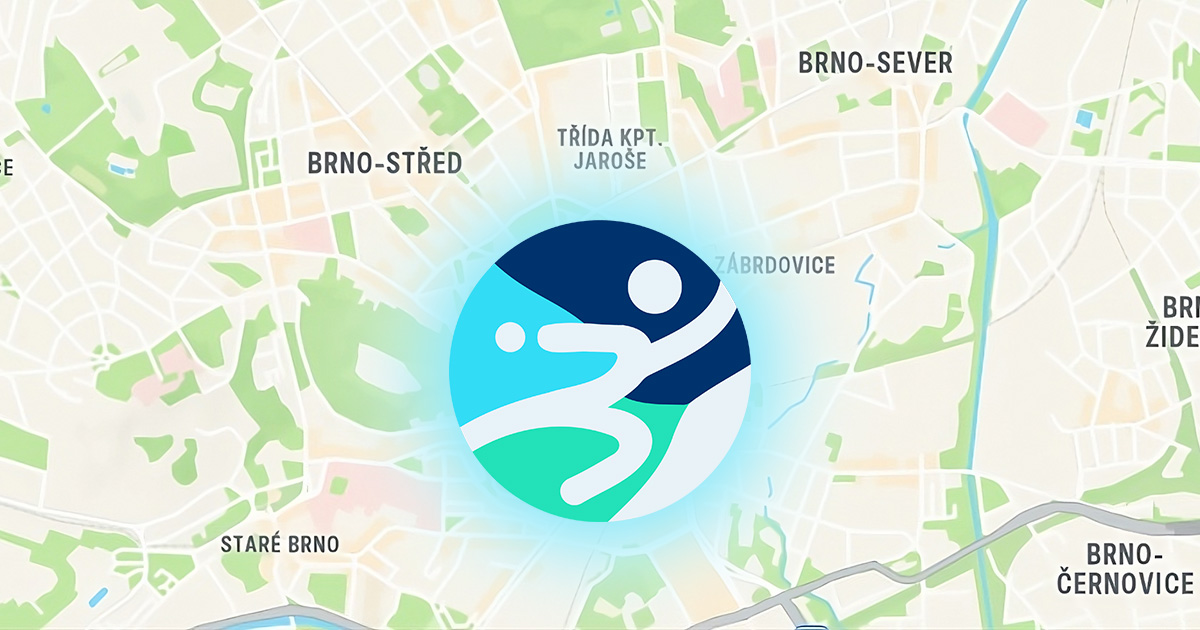
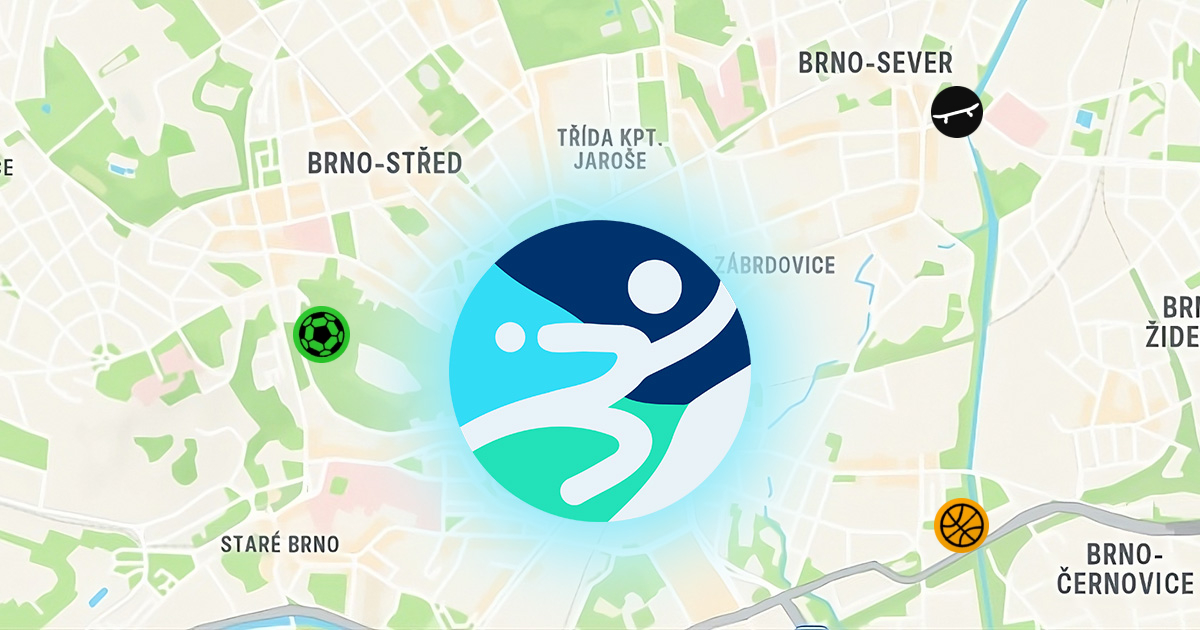
Lightbox fix

Changed region(s): [[0.7708, 0.1206, 0.8325, 0.2413], [0.7708, 0.7841, 0.8325, 0.8746], [0.2467, 0.4825, 0.3083, 0.573]]

diff --git a/sportera/src/components/Map.tsx b/sportera/src/components/Map.tsx
@@ -1,6 +1,7 @@
 import React, { useEffect, useRef, useCallback, useState } from 'react';
 import { mapKitConfig } from '@config/mapConfig';
 import places from '../data/places.json';
+import decathlons from '../data/decathlons.json'
 import * as markers from '../assets/markers';
 import SportFilters from './SportFilters';
 import Lightbox from './LightBox';
@@ -31,6 +32,14 @@ interface Place {
   Folder: string;
   Rating?: number;
   Reel?: string;
+}
+
+interface Decathlon {
+  Name: string;
+  Latitude: number;
+  Longitude: number;
+  Description: string;
+  reel?: string;  // Optional reel URL
 }
 
 const brnoCoordinates = { latitude: 49.1951, longitude: 16.6068 };
@@ -316,13 +325,14 @@ const Map: React.FC<MapProps> = React.memo(({ onFilterToggle }) => {
       region: new window.mapkit.CoordinateRegion(center, span),
       ...mapKitConfig.mapSettings,
     });
-
+  
     (mapInstanceRef.current as any)._allowWheelToZoom = true;
-
+  
     mapInstanceRef.current.addEventListener('zoom-start', hideFilters);
     mapInstanceRef.current.addEventListener('pan-start', hideFilters);
     mapInstanceRef.current.addEventListener('single-tap', hideFilters);
   
+    // Add sport places markers
     places.forEach((place: Place) => {
       const markerIcon = getMarkerIcon(place.Sport);
       if (markerIcon) {
@@ -351,7 +361,102 @@ const Map: React.FC<MapProps> = React.memo(({ onFilterToggle }) => {
         annotationsRef.current.push(annotation);
       }
     });
+  
+    // Add Decathlon markers
+    decathlons.forEach((decathlon: Decathlon) => {
+// In your decathlons.forEach loop, modify the annotation creation:
+const annotation = new window.mapkit.ImageAnnotation(
+  new window.mapkit.Coordinate(decathlon.Latitude, decathlon.Longitude),
+  {
+    title: decathlon.Name,
+    subtitle: decathlon.Description,
+    url: { 1: markers.decathlon },
+    size: { width: 32, height: 32 },
+    anchorOffset: new window.DOMPoint(0, -15),
+    callout: {
+      calloutElementForAnnotation: (annotation: any) => {
+        const div = document.createElement("div");
+        div.className = "custom-callout decathlon-callout";
+        
+        const contentDiv = document.createElement("div");
+        contentDiv.className = "callout-content";
+        
+        const title = document.createElement("h2");
+        title.className = "callout-title selectable";
+        const titleLink = document.createElement("a");
+        titleLink.href = "https://www.decathlon.cz/";
+        titleLink.target = "_blank";
+        titleLink.rel = "noopener noreferrer";
+        titleLink.textContent = annotation.title;
+        title.appendChild(titleLink);
+        contentDiv.appendChild(title);
+        
+        const description = document.createElement("p");
+        description.className = "callout-description selectable";
+        description.textContent = annotation.subtitle;
+        contentDiv.appendChild(description);
+        
+        const footer = document.createElement("div");
+        footer.className = "callout-footer";
+        
+        // Add navigation button
+        const button = document.createElement("button");
+        button.className = "callout-nav-button";
+        button.innerHTML = '<img src="/images/navigate-icon.svg" alt="Navigate" />';
+        button.addEventListener('click', (e) => {
+          e.preventDefault();
+          const url = `https://www.google.com/maps/search/?api=1&query=${annotation.coordinate.latitude},${annotation.coordinate.longitude}`;
+          if (/Android|webOS|iPhone|iPad|iPod|BlackBerry|IEMobile|Opera Mini/i.test(navigator.userAgent)) {
+            window.location.href = url;
+          } else {
+            window.open(url, '_blank');
+          }
+        });
+        footer.appendChild(button);
+      
+        // Add Instagram reel button only if there's a reel URL
+        if (annotation.data.reel) {
+          const reelButton = document.createElement("button");
+          reelButton.className = "callout-reel-button";
+          reelButton.innerHTML = '<img src="/images/instagram_logo.svg" alt="Watch Instagram Reel" />';
+          reelButton.addEventListener('click', () => {
+            const reelUrl = annotation.data.reel;
+            const cleanReelUrl = reelUrl.split('?')[0];
+            
+            if (/iPhone|iPad|iPod/i.test(navigator.userAgent)) {
+              window.location.href = cleanReelUrl;
+            } else if (/Android/i.test(navigator.userAgent)) {
+              const reelId = cleanReelUrl.split('/reel/')[1].replace('/', '');
+              const instagramAppUrl = `intent://instagram.com/reel/${reelId}#Intent;package=com.instagram.android;scheme=https;end`;
+              window.location.href = instagramAppUrl;
+              setTimeout(() => {
+                window.location.href = cleanReelUrl;
+              }, 2000);
+            } else {
+              window.open(cleanReelUrl, '_blank');
+            }
+          });
+          footer.appendChild(reelButton);
+        }
+        
+        contentDiv.appendChild(footer);
+        div.appendChild(contentDiv);
+        
+        return div;
+      }
+    },
+    accessibilityLabel: `${decathlon.Name}`,
+    data: { 
+      isDecathlon: true
+    },
+  }
+);
+      mapInstanceRef.current.addAnnotation(annotation);
+      // Add to a separate array or with a flag to distinguish from sport annotations
+      annotationsRef.current.push(annotation);
+    });
   }, [createCustomCallout, getMarkerIcon, hideFilters]);
+
   useEffect(() => {
     if (!window.mapkit) {
       const script = document.createElement('script');

diff --git a/sportera/index.html b/sportera/index.html
@@ -18,7 +18,7 @@
     <meta name="apple-mobile-web-app-title" content="Sportera">
     <meta name="apple-mobile-web-app-status-bar-style" content="black-translucent">
     <meta name="theme-color" content="#000000" />
-    <meta name="description" content="Sportera Brno vám pomáhá sportovat kdekoliv a kdykoliv. Objevujte sportoviště v Brně na basketbal, fotbal, workout,...">
+    <meta name="description" content="Sportera vám pomáhá sportovat kdekoliv a kdykoliv. Objevujte sportoviště v Brně na basketbal, fotbal, workout,...">
     <meta name="twitter:card" content="summary_large_image">
     <meta name="twitter:title" content="Sportera">
     <meta name="twitter:description" content="Sportera vám pomáhá sportovat kdekoliv a kdykoliv">
@@ -35,7 +35,7 @@
         "@context": "https://schema.org",
         "@type": ["WebApplication", "LocalBusiness"],
         "name": "Sportera Brno",
-        "alternateName": "Sportera Brno",
+        "alternateName": "Sportera",
         "description": "Sportera vám pomáhá sportovat kdekoliv a kdykoliv. Objevujte sportoviště v Brně.",
         "url": "https://Sportera.cz",
         "logo": "https://sportera.cz/images/logo.png",

diff --git a/sportera/src/components/styles/Callouts.css b/sportera/src/components/styles/Callouts.css
@@ -184,3 +184,36 @@
   display: block;
   border-radius: 15px;
 }
+
+.custom-callout.decathlon-callout {
+  background-color: rgba(196, 218, 255, 0.4);
+  border: 1px solid rgba(181, 169, 255, 0.3);
+}
+
+.decathlon-callout .callout-title {
+  text-shadow: 0 0px rgba(255, 255, 255, 0.5);
+  margin-bottom: 8px;
+  text-align: center;
+  margin-left: auto;
+  margin-right: auto;
+  font-size: 18px;
+  font-family: 'Roboto', 'Roboto fallback', 'system-ui', '-apple-system', 'Arial', 'sans-serif';
+  font-weight: 700;
+}
+
+.decathlon-callout .callout-title a {
+  color: #3943b3;
+  text-decoration: none;
+  text-shadow: none;
+  margin-bottom: 8px;
+}
+
+.decathlon-callout .callout-description {
+  text-shadow: none;
+  margin-bottom: 45px;
+  opacity: 0.9;
+  font-family: 'Roboto', 'Roboto fallback', 'system-ui', '-apple-system', 'Arial', 'sans-serif';
+  text-align: center;
+  margin-left: auto;
+  margin-right: auto;
+}

diff --git a/sportera/src/assets/markers/index.ts b/sportera/src/assets/markers/index.ts
@@ -11,6 +11,7 @@ import parkourMarker from './parkour.png';
 import bfMarker from './bf.png';
 import bfvMarker from './bfv.png';
 import clusterIcon from './clusterIcon.png';
+import decathlon from './decathlonLogo.png';
 
 export {
   gymMarker,
@@ -25,5 +26,6 @@ export {
   parkourMarker,
   bfMarker,
   bfvMarker,
-  clusterIcon
+  clusterIcon,
+  decathlon
 };

diff --git a/sportera/src/config/mapConfig.ts b/sportera/src/config/mapConfig.ts
@@ -3,8 +3,8 @@ export const mapKitConfig = {
   initialRegion: {
     latitude: 49.2051,
     longitude: 16.6068,
-    latitudeDelta: 0.10,
-    longitudeDelta: 0.10
+    latitudeDelta: 0.14,
+    longitudeDelta: 0.14
   },
   mapSettings: {
     showsUserLocation: true,
